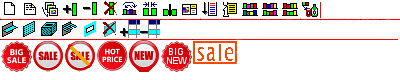
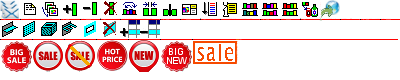
add toolbar-select: switch model store

Changed region(s): [[0.78, 0.0, 0.87, 0.25], [0.0, 0.0, 0.06, 0.25]]

diff --git a/app/assets/stylesheets/plans.css.scss b/app/assets/stylesheets/plans.css.scss
@@ -11,11 +11,18 @@
    font-size: 1.8em !important;
 }
 
+.toolbar-select {
+  max-width: 8em;
+  min-width: 3em;
+  font-size: 110%;
+  height: 26px;
+}
+
 .ui-button {
   // toolbar: 20x18, 2px gap between 2 rows
   // --- the 1st row, 20x18 ---
   // 1.1 plan-new
-  .ui-icon.ui-plan-new {
+  .ui-icon.ui-plan-publish {
     background-image: url(/assets/toolbar.png);
     background-position: 0px 0px;
     width: 20px;
@@ -105,6 +112,13 @@
   .ui-icon.ui-switch-show-colors {
     background-image: url(/assets/toolbar.png);
     background-position: -240px 0px;
+    width: 20px;
+    height: 18px;
+  }
+  // 1.17 switch-show-colors(x4)
+  .ui-icon.ui-plan-save {
+    background-image: url(/assets/toolbar.png);
+    background-position: -320px 0px;
     width: 20px;
     height: 18px;
   }

diff --git a/app/models/plan_set.rb b/app/models/plan_set.rb
@@ -41,6 +41,15 @@ class PlanSet < ActiveRecord::Base
     self.plans.any?
   end
 
+  def model_stores_opt
+    store_opt_class = Struct.new(:id, :name)
+    opt = []
+    plans.map do |plan|
+      opt.push store_opt_class.new(plan.id, plan.store_name)
+    end
+    opt
+  end
+
   def update_redundancy
     self.num_plans = plans.count
     self.num_stores = plans.map { |plan| plan.num_stores } .sum

diff --git a/app/models/plan.rb b/app/models/plan.rb
@@ -35,6 +35,7 @@ class Plan < ActiveRecord::Base
           plan_id: self.id,
           store_id: self.store_id,
           product_id: p.code,
+          init_facing: self.init_facing,
           facing: self.init_facing,
         })
       elsif on_shelf[p.code] && p.sale_type == 2
